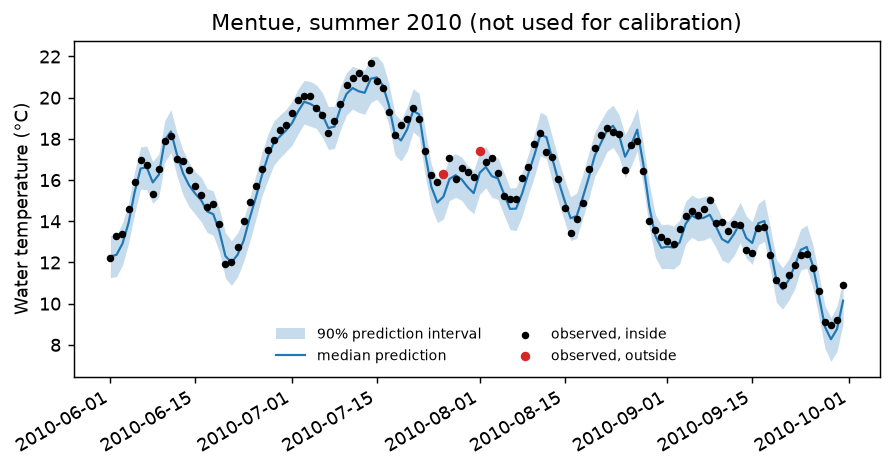
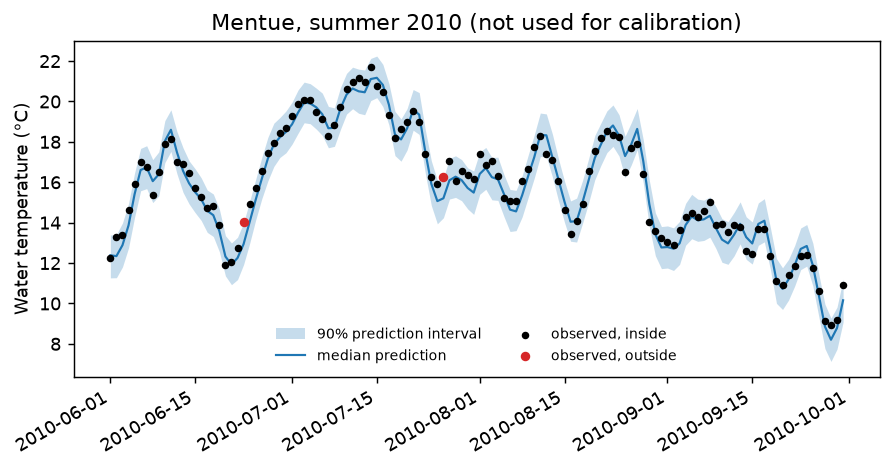
Examples 02-04 rerun with the least-squares likelihood
Example 03's probabilities that the 7-day mean exceeded 20 degC rise from
0.90/0.69/0.39 to 0.95/0.80/0.53 (measured: exceeded, 19.8, 19.6 degC);
validation-year coverage of the 90% band 89.1% (was 87.6%).

Claude-Session: https://claude.ai/code/session_01SBfKS8ELjb3WPKxNdXKy1i

diff --git a/validation/README.md b/validation/README.md
@@ -1,7 +1,9 @@
 # Validation
 
 This folder holds the evidence that pyair2stream is correct and that its results
-can be relied on. The results are in [REPORT.md](REPORT.md).
+can be relied on. [REPORT.md](REPORT.md) summarises every check, and each check
+has a full report in [reports/](reports/) (question, method, pass criterion,
+figures, tables and what the result means).
 
 Every check runs the package the way a user would, through its configuration
 files and run modes. Each check states its question, method and pass criterion
@@ -12,10 +14,10 @@ before its result.
 | Check | Question | Why it matters |
 |---|---|---|
 | V1 | Does it compute the same temperatures as the original Fortran program, on real, variable inputs? | Shows the model equations and solution schemes were translated correctly. |
-| V2 | Given the published parameters, does it reproduce the published model errors for every model version on three Swiss rivers? Does its own calibration fit at least as well (judged by the original program too), and find the published parameters? | Ties the package to the peer-reviewed results of Piccolroaz et al. (2016). |
+| V2 | Given the published parameters, does it reproduce the published model errors for every model version on three Swiss rivers? Does its own calibration, done the way the paper did it, fit at least as well (judged by the original program too) and find the published parameters? Do the published parameters lie inside its uncertainty intervals? | Ties the package to the peer-reviewed results of Piccolroaz et al. (2016). |
 | V3 | When data are made by the model itself from known parameters, does calibration recover them well enough to predict other years? | Only with a known truth can we tell whether calibration finds the right answer. |
-| V4 | Do the 90% uncertainty intervals contain the truth about 90% of the time? | An interval is only useful if its stated confidence is honest. |
-| V5 | On real rivers, how well does a calibrated model predict years it has not seen, compared with simple alternatives? Do its intervals contain about 90% of real measurements? | Tests the whole approach on real data, not only the code. |
+| V4 | Do the 90% uncertainty intervals contain the truth about 90% of the time, with each likelihood the package offers? | An interval is only useful if its stated confidence is honest. |
+| V5 | On real rivers, how well does a calibrated model predict years it has not seen, compared with simple alternatives? Do its intervals contain about 90% of real measurements, and are they centred on the best fit? | Tests the whole approach on real data, not only the code. |
 | V6 | How accurate are the numerical schemes, does the package stop runs that go wrong, and does the choice of stable scheme matter? | Rules out numerical error as a source of wrong answers. |
 | V7 | Do gaps in the water or air temperature record bias the result? | Real records have gaps. |
 | V8 | Does the documented workflow reproduce the calibration exactly? Do scenario comparisons and threshold counts give exact answers where the answer is known? | The tools used to reach a conclusion must be exact. |
@@ -25,14 +27,15 @@ before its result.
 From the repository root, with the package installed (`pip install -e .`):
 
 ```bash
-python validation/run_all.py            # full suite, about 50 minutes on 4 cores
+python validation/run_all.py            # full suite, about 2 hours on 4 cores
 python validation/run_all.py --quick    # reduced version of every check, about 2 minutes
 python validation/run_all.py --only V2 V6
 ```
 
 V1 needs `gfortran` and the Fortran source (`git submodule update --init`);
 without them it is reported as not run. The run rewrites `REPORT.md`,
-`results/` (every table as CSV) and `figures/`. Scratch files go to `work/`,
+`reports/` (one report per check), `results/` (every table as CSV) and
+`figures/`. Scratch files go to `work/`,
 which is not kept. All random steps are seeded, so a rerun on the same software
 versions gives the same numbers; the report records the versions used. The one
 exception is the original Fortran program's own calibration runs in V2 parts D

diff --git a/examples/02_uncertainty/README.md b/examples/02_uncertainty/README.md
@@ -26,10 +26,10 @@ After the DE calibration, the sampler runs in blocks of 1,000 steps until its
 results are stable, and reports:
 
 ```
-  5000 steps: max autocorrelation time 29.1, max split-Rhat 1.0091
+  5000 steps: max autocorrelation time 28.2, max split-Rhat 1.0089
 MCMC converged after 5000 steps (at least 50 x the autocorrelation time, split-Rhat below 1.01).
 ...
-Interval check: 90.2% of 2907 observed days lie inside the 90% prediction interval.
+Interval check: 90.4% of 2907 observed days lie inside the 90% prediction interval.
 ```
 
 **Check both lines before using the results.**
@@ -59,11 +59,11 @@ writes the interval for every day to
 measurements, it also reports how many fall inside:
 
 ```
-Interval check: 87.6% of 1095 observed days lie inside the 90% prediction interval.
+Interval check: 89.1% of 1095 observed days lie inside the 90% prediction interval.
 ```
 
-That is a little below 90%. The validation suite found the same on all three
-Swiss rivers (85–89%, [V5](../../validation/REPORT.md#v5)): the model's errors
+That is close to 90%, slightly below. The validation suite found 85–89% on the
+three Swiss rivers ([V5](../../validation/REPORT.md#v5)): the model's errors
 are somewhat larger in years it has not seen, so the intervals are slightly
 optimistic for new years.
 
@@ -80,24 +80,28 @@ points fall outside it.*
   (independent errors), but for anything spanning several days (7-day means,
   consecutive days above a limit) `"iid"` gives intervals that are far too
   narrow. On the Swiss rivers, 90% intervals for 7-day means contained only
-  39–62% of observed values with `"iid"`, and 76–88% with `"ar1"`
+  39–62% of observed values with `"iid"`, and 83–88% with `"ar1"`
   ([V5](../../validation/REPORT.md#v5)).
+- **`likelihood`** is left at its default, `"least_squares"`: the parameter
+  sets are judged by their least-squares fit, with the uncertainty widened
+  because daily errors are not independent. The band therefore stays centred on
+  the best fit. The alternative, `"exact"`, centred this example's band about
+  0.05 °C cooler and gave lower probabilities of exceeding a limit (example
+  03) ([V5](../../validation/REPORT.md#v5)).
 - **`random_seed`** makes the whole run repeatable.
 
 ## About the parameters
 
 `output/calibration/parameter_significance_DE-MCMC_Mentue.csv` lists each
-parameter's mean and 95% range. Two cautions for version 8, whose parameters
-trade off against each other (several combinations fit almost equally well):
+parameter's mean and 95% range. They are centred on the best fit in
+`calibration_metadata.json` (for example `a5`: 2.55 in the best fit, 2.72 ±
+0.38 in the chain). In a test with known parameters, such 90% ranges contained
+the true value at least 90% of the time ([V4](../../validation/REPORT.md#v4)).
 
-- The ranges are narrower than they should be
-  ([V4](../../validation/REPORT.md#v4)).
-- With `noise_model: "ar1"` they can be centred on a different combination from
-  the best fit in `calibration_metadata.json`, which maximises NSE and so treats
-  errors as independent. Here `a5` is 2.6 in the best fit but 4.7 ± 0.3 in the
-  chain. The predictions barely differ (validation RMSE 0.78 against 0.79 °C).
-
-Rely on the predictions, not on individual parameter values.
+Version 8's parameters trade off against each other: several combinations fit
+almost equally well, so each range is wide, and parameters move together.
+Rely on the predictions rather than on individual parameter values, and do not
+combine the ends of several ranges.
 
 ## Next
 

diff --git a/examples/03_compliance/README.md b/examples/03_compliance/README.md
@@ -46,16 +46,16 @@ warm_days = scenario.exceedance(sims.loc["2010"].T.to_numpy(), 18)   # days abov
 
 | Year | P(7-day mean > 20 °C) | Highest 7-day mean, 90% range | Measured | Days above 18 °C, median (90% range) | Measured |
 |---|---|---|---|---|---|
-| 2010 | 0.90 | 19.8 to 21.3 °C | 21.0 °C | 29 (23 to 34) | 30 |
-| 2011 | 0.69 | 19.5 to 21.0 °C | 19.8 °C | 17 (13 to 22) | 21 |
-| 2012 | 0.39 | 19.1 to 20.7 °C | 19.6 °C | 23 (17 to 29) | 22 |
+| 2010 | 0.95 | 20.0 to 21.5 °C | 21.0 °C | 31 (26 to 36) | 30 |
+| 2011 | 0.80 | 19.6 to 21.2 °C | 19.8 °C | 19 (14 to 25) | 21 |
+| 2012 | 0.53 | 19.3 to 20.9 °C | 19.6 °C | 25 (19 to 31) | 22 |
 
 ![Highest 7-day mean in each simulation](figures/peak_7day_mean.png)
 
-**Reading it.** In 2010 the limit was very likely exceeded (probability 0.90),
+**Reading it.** In 2010 the limit was very likely exceeded (probability 0.95),
 and it was. In 2011 and 2012 the measured peaks, 19.8 and 19.6 °C, were within a
 few tenths of a degree of the limit. That is closer than the model can resolve,
-and its probabilities (0.69 and 0.39) say so: they leave both outcomes open. All
+and its probabilities (0.80 and 0.53) say so: they leave both outcomes open. All
 measured values lie inside the model's 90% ranges. Report such results as
 probabilities with ranges, not as a yes or no.
 
@@ -64,9 +64,13 @@ probabilities with ranges, not as a yes or no.
 - **Daily means only.** The model simulates daily mean temperature. It cannot
   assess limits on daily maximum temperature.
 - **The probabilities are somewhat too confident.** On unseen years, 90% ranges
-  for 7-day means contained the measured value 76–88% of the time
+  for 7-day means contained the measured value 83–88% of the time
   ([V5](../../validation/REPORT.md#v5)). Treat probabilities near 0.9 or 0.1 as
   less certain than they look.
+- **The method matters.** With the alternative `likelihood: "exact"` the
+  simulations ran slightly cooler and the probabilities were 0.90, 0.69 and 0.39:
+  lower by up to 0.14. The default keeps the simulations centred on the best fit
+  ([METHODS §12](../../docs/METHODS.md#12-parameter-and-prediction-uncertainty-de-mcmc)).
 - **The answer depends on the definition.** Here a 7-day mean is a moving
   average over the current and previous six days. Use your standard's own
   definition (moving or fixed weeks, calendar year or season).

diff --git a/examples/04_scenario/README.md b/examples/04_scenario/README.md
@@ -55,18 +55,18 @@ diff = scenario.paired_difference_from_files(
 
 | | Median | 90% range |
 |---|---|---|
-| Average summer (Jun–Aug) change | +0.03 °C | +0.02 to +0.05 °C |
-| Average winter (Dec–Feb) change | −0.07 °C | −0.09 to −0.05 °C |
-| Largest warming on a single day | +0.36 °C | +0.34 to +0.38 °C |
-| Extra days per year above 18 °C | 0.7 | 0.0 to 1.7 |
-| *Summer change if the runs were not paired* | *+0.03 °C* | *−0.21 to +0.26 °C* |
+| Average summer (Jun–Aug) change | +0.05 °C | +0.03 to +0.07 °C |
+| Average winter (Dec–Feb) change | −0.07 °C | −0.10 to −0.04 °C |
+| Largest warming on a single day | +0.31 °C | +0.27 to +0.35 °C |
+| Extra days per year above 18 °C | 1.0 | 0.0 to 2.0 |
+| *Summer change if the runs were not paired* | *+0.05 °C* | *−0.19 to +0.28 °C* |
 
 ![Daily effect of the abstraction and the summer average](figures/abstraction_effect.png)
 
 **Reading it.** According to the calibrated model, this abstraction changes the
 Mentue's temperature only slightly on average. Summers are marginally warmer and
 winters marginally colder: with less water, the river follows the air more
-closely. On individual low-flow days the warming reaches about 0.4 °C. Without
+closely. On individual low-flow days the warming reaches about 0.3 °C. Without
 pairing (last row, grey in the figure), the same simulations cannot even tell
 whether the river gets warmer or colder.
 
